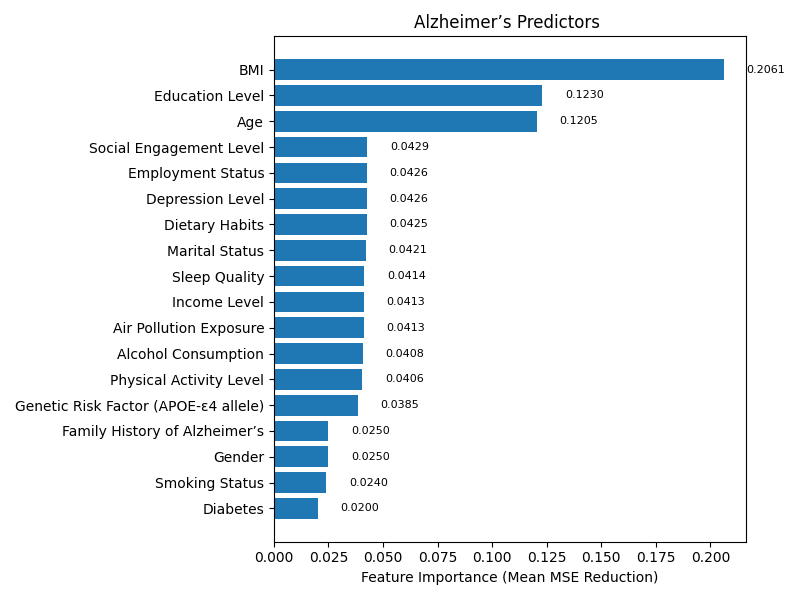
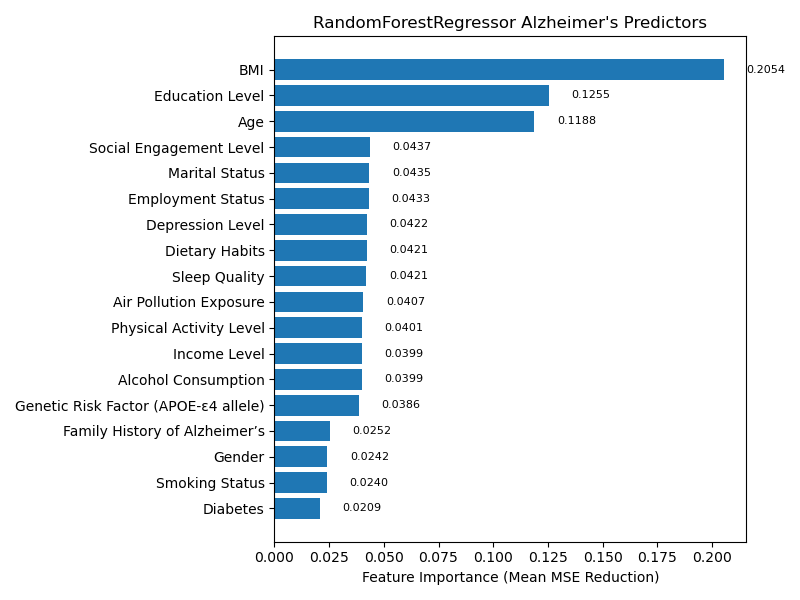
Final project: full updated website with dynamic visual explanations

diff --git a/interactive_chart.html b/interactive_chart.html
@@ -2,6 +2,6 @@
 <head><meta charset="utf-8" /></head>
 <body>
     <div>                        <script type="text/javascript">window.PlotlyConfig = {MathJaxConfig: 'local'};</script>
-        <script src="https://cdn.plot.ly/plotly-2.12.1.min.js"></script>                <div id="f7742f67-612d-4170-8a8c-887f376bfe71" class="plotly-graph-div" style="height:100%; width:100%;"></div>            <script type="text/javascript">                                    window.PLOTLYENV=window.PLOTLYENV || {};                                    if (document.getElementById("f7742f67-612d-4170-8a8c-887f376bfe71")) {                    Plotly.newPlot(                        "f7742f67-612d-4170-8a8c-887f376bfe71",                        [{"hoverinfo":"text","hovertext":["Summed Importance: 23.84%<br>Features: Age, Gender, Genetic Risk Factor (APOE-\u03b54 allele), Family History of Alzheimer\u2019s, Diabetes","Summed Importance: 76.16%<br>Features: Physical Activity Level, Smoking Status, Alcohol Consumption, Sleep Quality, Dietary Habits, Employment Status, Marital Status, Social Engagement Level, Income Level, Depression Level, Air Pollution Exposure, BMI, Education Level"],"marker":{"color":["#e377c2","#9467bd"]},"showlegend":false,"x":["Nature","Nurture"],"y":[23.839139895958798,76.16086010404122],"type":"bar"}],                        {"template":{"data":{"histogram2dcontour":[{"type":"histogram2dcontour","colorbar":{"outlinewidth":0,"ticks":""},"colorscale":[[0.0,"#0d0887"],[0.1111111111111111,"#46039f"],[0.2222222222222222,"#7201a8"],[0.3333333333333333,"#9c179e"],[0.4444444444444444,"#bd3786"],[0.5555555555555556,"#d8576b"],[0.6666666666666666,"#ed7953"],[0.7777777777777778,"#fb9f3a"],[0.8888888888888888,"#fdca26"],[1.0,"#f0f921"]]}],"choropleth":[{"type":"choropleth","colorbar":{"outlinewidth":0,"ticks":""}}],"histogram2d":[{"type":"histogram2d","colorbar":{"outlinewidth":0,"ticks":""},"colorscale":[[0.0,"#0d0887"],[0.1111111111111111,"#46039f"],[0.2222222222222222,"#7201a8"],[0.3333333333333333,"#9c179e"],[0.4444444444444444,"#bd3786"],[0.5555555555555556,"#d8576b"],[0.6666666666666666,"#ed7953"],[0.7777777777777778,"#fb9f3a"],[0.8888888888888888,"#fdca26"],[1.0,"#f0f921"]]}],"heatmap":[{"type":"heatmap","colorbar":{"outlinewidth":0,"ticks":""},"colorscale":[[0.0,"#0d0887"],[0.1111111111111111,"#46039f"],[0.2222222222222222,"#7201a8"],[0.3333333333333333,"#9c179e"],[0.4444444444444444,"#bd3786"],[0.5555555555555556,"#d8576b"],[0.6666666666666666,"#ed7953"],[0.7777777777777778,"#fb9f3a"],[0.8888888888888888,"#fdca26"],[1.0,"#f0f921"]]}],"heatmapgl":[{"type":"heatmapgl","colorbar":{"outlinewidth":0,"ticks":""},"colorscale":[[0.0,"#0d0887"],[0.1111111111111111,"#46039f"],[0.2222222222222222,"#7201a8"],[0.3333333333333333,"#9c179e"],[0.4444444444444444,"#bd3786"],[0.5555555555555556,"#d8576b"],[0.6666666666666666,"#ed7953"],[0.7777777777777778,"#fb9f3a"],[0.8888888888888888,"#fdca26"],[1.0,"#f0f921"]]}],"contourcarpet":[{"type":"contourcarpet","colorbar":{"outlinewidth":0,"ticks":""}}],"contour":[{"type":"contour","colorbar":{"outlinewidth":0,"ticks":""},"colorscale":[[0.0,"#0d0887"],[0.1111111111111111,"#46039f"],[0.2222222222222222,"#7201a8"],[0.3333333333333333,"#9c179e"],[0.4444444444444444,"#bd3786"],[0.5555555555555556,"#d8576b"],[0.6666666666666666,"#ed7953"],[0.7777777777777778,"#fb9f3a"],[0.8888888888888888,"#fdca26"],[1.0,"#f0f921"]]}],"surface":[{"type":"surface","colorbar":{"outlinewidth":0,"ticks":""},"colorscale":[[0.0,"#0d0887"],[0.1111111111111111,"#46039f"],[0.2222222222222222,"#7201a8"],[0.3333333333333333,"#9c179e"],[0.4444444444444444,"#bd3786"],[0.5555555555555556,"#d8576b"],[0.6666666666666666,"#ed7953"],[0.7777777777777778,"#fb9f3a"],[0.8888888888888888,"#fdca26"],[1.0,"#f0f921"]]}],"mesh3d":[{"type":"mesh3d","colorbar":{"outlinewidth":0,"ticks":""}}],"scatter":[{"fillpattern":{"fillmode":"overlay","size":10,"solidity":0.2},"type":"scatter"}],"parcoords":[{"type":"parcoords","line":{"colorbar":{"outlinewidth":0,"ticks":""}}}],"scatterpolargl":[{"type":"scatterpolargl","marker":{"colorbar":{"outlinewidth":0,"ticks":""}}}],"bar":[{"error_x":{"color":"#2a3f5f"},"error_y":{"color":"#2a3f5f"},"marker":{"line":{"color":"#E5ECF6","width":0.5},"pattern":{"fillmode":"overlay","size":10,"solidity":0.2}},"type":"bar"}],"scattergeo":[{"type":"scattergeo","marker":{"colorbar":{"outlinewidth":0,"ticks":""}}}],"scatterpolar":[{"type":"scatterpolar","marker":{"colorbar":{"outlinewidth":0,"ticks":""}}}],"histogram":[{"marker":{"pattern":{"fillmode":"overlay","size":10,"solidity":0.2}},"type":"histogram"}],"scattergl":[{"type":"scattergl","marker":{"colorbar":{"outlinewidth":0,"ticks":""}}}],"scatter3d":[{"type":"scatter3d","line":{"colorbar":{"outlinewidth":0,"ticks":""}},"marker":{"colorbar":{"outlinewidth":0,"ticks":""}}}],"scattermapbox":[{"type":"scattermapbox","marker":{"colorbar":{"outlinewidth":0,"ticks":""}}}],"scatterternary":[{"type":"scatterternary","marker":{"colorbar":{"outlinewidth":0,"ticks":""}}}],"scattercarpet":[{"type":"scattercarpet","marker":{"colorbar":{"outlinewidth":0,"ticks":""}}}],"carpet":[{"aaxis":{"endlinecolor":"#2a3f5f","gridcolor":"white","linecolor":"white","minorgridcolor":"white","startlinecolor":"#2a3f5f"},"baxis":{"endlinecolor":"#2a3f5f","gridcolor":"white","linecolor":"white","minorgridcolor":"white","startlinecolor":"#2a3f5f"},"type":"carpet"}],"table":[{"cells":{"fill":{"color":"#EBF0F8"},"line":{"color":"white"}},"header":{"fill":{"color":"#C8D4E3"},"line":{"color":"white"}},"type":"table"}],"barpolar":[{"marker":{"line":{"color":"#E5ECF6","width":0.5},"pattern":{"fillmode":"overlay","size":10,"solidity":0.2}},"type":"barpolar"}],"pie":[{"automargin":true,"type":"pie"}]},"layout":{"autotypenumbers":"strict","colorway":["#636efa","#EF553B","#00cc96","#ab63fa","#FFA15A","#19d3f3","#FF6692","#B6E880","#FF97FF","#FECB52"],"font":{"color":"#2a3f5f"},"hovermode":"closest","hoverlabel":{"align":"left"},"paper_bgcolor":"white","plot_bgcolor":"#E5ECF6","polar":{"bgcolor":"#E5ECF6","angularaxis":{"gridcolor":"white","linecolor":"white","ticks":""},"radialaxis":{"gridcolor":"white","linecolor":"white","ticks":""}},"ternary":{"bgcolor":"#E5ECF6","aaxis":{"gridcolor":"white","linecolor":"white","ticks":""},"baxis":{"gridcolor":"white","linecolor":"white","ticks":""},"caxis":{"gridcolor":"white","linecolor":"white","ticks":""}},"coloraxis":{"colorbar":{"outlinewidth":0,"ticks":""}},"colorscale":{"sequential":[[0.0,"#0d0887"],[0.1111111111111111,"#46039f"],[0.2222222222222222,"#7201a8"],[0.3333333333333333,"#9c179e"],[0.4444444444444444,"#bd3786"],[0.5555555555555556,"#d8576b"],[0.6666666666666666,"#ed7953"],[0.7777777777777778,"#fb9f3a"],[0.8888888888888888,"#fdca26"],[1.0,"#f0f921"]],"sequentialminus":[[0.0,"#0d0887"],[0.1111111111111111,"#46039f"],[0.2222222222222222,"#7201a8"],[0.3333333333333333,"#9c179e"],[0.4444444444444444,"#bd3786"],[0.5555555555555556,"#d8576b"],[0.6666666666666666,"#ed7953"],[0.7777777777777778,"#fb9f3a"],[0.8888888888888888,"#fdca26"],[1.0,"#f0f921"]],"diverging":[[0,"#8e0152"],[0.1,"#c51b7d"],[0.2,"#de77ae"],[0.3,"#f1b6da"],[0.4,"#fde0ef"],[0.5,"#f7f7f7"],[0.6,"#e6f5d0"],[0.7,"#b8e186"],[0.8,"#7fbc41"],[0.9,"#4d9221"],[1,"#276419"]]},"xaxis":{"gridcolor":"white","linecolor":"white","ticks":"","title":{"standoff":15},"zerolinecolor":"white","automargin":true,"zerolinewidth":2},"yaxis":{"gridcolor":"white","linecolor":"white","ticks":"","title":{"standoff":15},"zerolinecolor":"white","automargin":true,"zerolinewidth":2},"scene":{"xaxis":{"backgroundcolor":"#E5ECF6","gridcolor":"white","linecolor":"white","showbackground":true,"ticks":"","zerolinecolor":"white","gridwidth":2},"yaxis":{"backgroundcolor":"#E5ECF6","gridcolor":"white","linecolor":"white","showbackground":true,"ticks":"","zerolinecolor":"white","gridwidth":2},"zaxis":{"backgroundcolor":"#E5ECF6","gridcolor":"white","linecolor":"white","showbackground":true,"ticks":"","zerolinecolor":"white","gridwidth":2}},"shapedefaults":{"line":{"color":"#2a3f5f"}},"annotationdefaults":{"arrowcolor":"#2a3f5f","arrowhead":0,"arrowwidth":1},"geo":{"bgcolor":"white","landcolor":"#E5ECF6","subunitcolor":"white","showland":true,"showlakes":true,"lakecolor":"white"},"title":{"x":0.05},"mapbox":{"style":"light"}}},"updatemenus":[{"buttons":[{"args":[{"x":[["Nature","Nurture"]],"y":[[23.839139895958798,76.16086010404122]],"hovertext":[["Summed Importance: 23.84%<br>Features: Age, Gender, Genetic Risk Factor (APOE-\u03b54 allele), Family History of Alzheimer\u2019s, Diabetes","Summed Importance: 76.16%<br>Features: Physical Activity Level, Smoking Status, Alcohol Consumption, Sleep Quality, Dietary Habits, Employment Status, Marital Status, Social Engagement Level, Income Level, Depression Level, Air Pollution Exposure, BMI, Education Level"]],"marker.color":[["#e377c2","#9467bd"]]},{"title":"Grouped RFR Factor Importance for: Nature vs Nature","xaxis":{"title":""}}],"label":"Nature vs Nature","method":"update"},{"args":[{"x":[["Yes","Debatable","No"]],"y":[[51.75034590280036,11.788633560982614,36.461020536217035]],"hovertext":[["Summed Importance: 51.75%<br>Features: Physical Activity Level, Smoking Status, Alcohol Consumption, Dietary Habits, Social Engagement Level, BMI, Education Level","Summed Importance: 11.79%<br>Features: Sleep Quality, Employment Status, Income Level","Summed Importance: 36.46%<br>Features: Age, Gender, Genetic Risk Factor (APOE-\u03b54 allele), Family History of Alzheimer\u2019s, Diabetes, Air Pollution Exposure, Depression Level, Marital Status"]],"marker.color":[["#8c564b","#ff7f0e","#1f77b4"]]},{"title":"Grouped RFR Factor Importance for: Impact of Life Choices","xaxis":{"title":""}}],"label":"Impact of Life Choices","method":"update"},{"args":[{"x":[["Body Factors","Other"]],"y":[[43.03508197951786,56.964918020482145]],"hovertext":[["Summed Importance: 43.04%<br>Features: Physical Activity Level, Smoking Status, Alcohol Consumption, Depression Level, Sleep Quality, Dietary Habits, BMI","Summed Importance: 56.96%<br>Features: Gender, Education Level, Age, Diabetes, Family History of Alzheimer\u2019s, Air Pollution Exposure, Employment Status, Marital Status, Genetic Risk Factor (APOE-\u03b54 allele), Social Engagement Level, Income Level"]],"marker.color":[["#d62728","#2ca02c"]]},{"title":"Grouped RFR Factor Importance for: Importance of Taking Care of Your Body","xaxis":{"title":""}}],"label":"Importance of Taking Care of Your Body","method":"update"}],"direction":"down","showactive":true,"x":0.1,"xanchor":"right","y":1.1,"yanchor":"top"}],"title":{"text":"Totaled RFR Percentage Importances for: Nature vs Nature"},"xaxis":{"title":{"text":""}},"yaxis":{"title":{"text":"Total Importance (%)"}},"showlegend":false},                        {"responsive": true}                    )                };                            </script>        </div>
+        <script src="https://cdn.plot.ly/plotly-2.12.1.min.js"></script>                <div id="7551cdc0-fb35-4926-881c-478b0c6d7e42" class="plotly-graph-div" style="height:100%; width:100%;"></div>            <script type="text/javascript">                                    window.PLOTLYENV=window.PLOTLYENV || {};                                    if (document.getElementById("7551cdc0-fb35-4926-881c-478b0c6d7e42")) {                    Plotly.newPlot(                        "7551cdc0-fb35-4926-881c-478b0c6d7e42",                        [{"hoverinfo":"text","hovertext":["Summed Importance: 23.21%<br>Features: Age, Gender, Genetic Risk Factor (APOE-\u03b54 allele), Family History of Alzheimer\u2019s, Diabetes","Summed Importance: 76.79%<br>Features: Physical Activity Level, Smoking Status, Alcohol Consumption, Sleep Quality, Dietary Habits, Employment Status, Marital Status, Social Engagement Level, Income Level, Depression Level, Air Pollution Exposure, BMI, Education Level"],"marker":{"color":["#8c564b","#9467bd"]},"showlegend":false,"x":["Nature","Nurture"],"y":[23.20738542897737,76.79261457102264],"type":"bar"}],                        {"template":{"data":{"histogram2dcontour":[{"type":"histogram2dcontour","colorbar":{"outlinewidth":0,"ticks":""},"colorscale":[[0.0,"#0d0887"],[0.1111111111111111,"#46039f"],[0.2222222222222222,"#7201a8"],[0.3333333333333333,"#9c179e"],[0.4444444444444444,"#bd3786"],[0.5555555555555556,"#d8576b"],[0.6666666666666666,"#ed7953"],[0.7777777777777778,"#fb9f3a"],[0.8888888888888888,"#fdca26"],[1.0,"#f0f921"]]}],"choropleth":[{"type":"choropleth","colorbar":{"outlinewidth":0,"ticks":""}}],"histogram2d":[{"type":"histogram2d","colorbar":{"outlinewidth":0,"ticks":""},"colorscale":[[0.0,"#0d0887"],[0.1111111111111111,"#46039f"],[0.2222222222222222,"#7201a8"],[0.3333333333333333,"#9c179e"],[0.4444444444444444,"#bd3786"],[0.5555555555555556,"#d8576b"],[0.6666666666666666,"#ed7953"],[0.7777777777777778,"#fb9f3a"],[0.8888888888888888,"#fdca26"],[1.0,"#f0f921"]]}],"heatmap":[{"type":"heatmap","colorbar":{"outlinewidth":0,"ticks":""},"colorscale":[[0.0,"#0d0887"],[0.1111111111111111,"#46039f"],[0.2222222222222222,"#7201a8"],[0.3333333333333333,"#9c179e"],[0.4444444444444444,"#bd3786"],[0.5555555555555556,"#d8576b"],[0.6666666666666666,"#ed7953"],[0.7777777777777778,"#fb9f3a"],[0.8888888888888888,"#fdca26"],[1.0,"#f0f921"]]}],"heatmapgl":[{"type":"heatmapgl","colorbar":{"outlinewidth":0,"ticks":""},"colorscale":[[0.0,"#0d0887"],[0.1111111111111111,"#46039f"],[0.2222222222222222,"#7201a8"],[0.3333333333333333,"#9c179e"],[0.4444444444444444,"#bd3786"],[0.5555555555555556,"#d8576b"],[0.6666666666666666,"#ed7953"],[0.7777777777777778,"#fb9f3a"],[0.8888888888888888,"#fdca26"],[1.0,"#f0f921"]]}],"contourcarpet":[{"type":"contourcarpet","colorbar":{"outlinewidth":0,"ticks":""}}],"contour":[{"type":"contour","colorbar":{"outlinewidth":0,"ticks":""},"colorscale":[[0.0,"#0d0887"],[0.1111111111111111,"#46039f"],[0.2222222222222222,"#7201a8"],[0.3333333333333333,"#9c179e"],[0.4444444444444444,"#bd3786"],[0.5555555555555556,"#d8576b"],[0.6666666666666666,"#ed7953"],[0.7777777777777778,"#fb9f3a"],[0.8888888888888888,"#fdca26"],[1.0,"#f0f921"]]}],"surface":[{"type":"surface","colorbar":{"outlinewidth":0,"ticks":""},"colorscale":[[0.0,"#0d0887"],[0.1111111111111111,"#46039f"],[0.2222222222222222,"#7201a8"],[0.3333333333333333,"#9c179e"],[0.4444444444444444,"#bd3786"],[0.5555555555555556,"#d8576b"],[0.6666666666666666,"#ed7953"],[0.7777777777777778,"#fb9f3a"],[0.8888888888888888,"#fdca26"],[1.0,"#f0f921"]]}],"mesh3d":[{"type":"mesh3d","colorbar":{"outlinewidth":0,"ticks":""}}],"scatter":[{"fillpattern":{"fillmode":"overlay","size":10,"solidity":0.2},"type":"scatter"}],"parcoords":[{"type":"parcoords","line":{"colorbar":{"outlinewidth":0,"ticks":""}}}],"scatterpolargl":[{"type":"scatterpolargl","marker":{"colorbar":{"outlinewidth":0,"ticks":""}}}],"bar":[{"error_x":{"color":"#2a3f5f"},"error_y":{"color":"#2a3f5f"},"marker":{"line":{"color":"#E5ECF6","width":0.5},"pattern":{"fillmode":"overlay","size":10,"solidity":0.2}},"type":"bar"}],"scattergeo":[{"type":"scattergeo","marker":{"colorbar":{"outlinewidth":0,"ticks":""}}}],"scatterpolar":[{"type":"scatterpolar","marker":{"colorbar":{"outlinewidth":0,"ticks":""}}}],"histogram":[{"marker":{"pattern":{"fillmode":"overlay","size":10,"solidity":0.2}},"type":"histogram"}],"scattergl":[{"type":"scattergl","marker":{"colorbar":{"outlinewidth":0,"ticks":""}}}],"scatter3d":[{"type":"scatter3d","line":{"colorbar":{"outlinewidth":0,"ticks":""}},"marker":{"colorbar":{"outlinewidth":0,"ticks":""}}}],"scattermapbox":[{"type":"scattermapbox","marker":{"colorbar":{"outlinewidth":0,"ticks":""}}}],"scatterternary":[{"type":"scatterternary","marker":{"colorbar":{"outlinewidth":0,"ticks":""}}}],"scattercarpet":[{"type":"scattercarpet","marker":{"colorbar":{"outlinewidth":0,"ticks":""}}}],"carpet":[{"aaxis":{"endlinecolor":"#2a3f5f","gridcolor":"white","linecolor":"white","minorgridcolor":"white","startlinecolor":"#2a3f5f"},"baxis":{"endlinecolor":"#2a3f5f","gridcolor":"white","linecolor":"white","minorgridcolor":"white","startlinecolor":"#2a3f5f"},"type":"carpet"}],"table":[{"cells":{"fill":{"color":"#EBF0F8"},"line":{"color":"white"}},"header":{"fill":{"color":"#C8D4E3"},"line":{"color":"white"}},"type":"table"}],"barpolar":[{"marker":{"line":{"color":"#E5ECF6","width":0.5},"pattern":{"fillmode":"overlay","size":10,"solidity":0.2}},"type":"barpolar"}],"pie":[{"automargin":true,"type":"pie"}]},"layout":{"autotypenumbers":"strict","colorway":["#636efa","#EF553B","#00cc96","#ab63fa","#FFA15A","#19d3f3","#FF6692","#B6E880","#FF97FF","#FECB52"],"font":{"color":"#2a3f5f"},"hovermode":"closest","hoverlabel":{"align":"left"},"paper_bgcolor":"white","plot_bgcolor":"#E5ECF6","polar":{"bgcolor":"#E5ECF6","angularaxis":{"gridcolor":"white","linecolor":"white","ticks":""},"radialaxis":{"gridcolor":"white","linecolor":"white","ticks":""}},"ternary":{"bgcolor":"#E5ECF6","aaxis":{"gridcolor":"white","linecolor":"white","ticks":""},"baxis":{"gridcolor":"white","linecolor":"white","ticks":""},"caxis":{"gridcolor":"white","linecolor":"white","ticks":""}},"coloraxis":{"colorbar":{"outlinewidth":0,"ticks":""}},"colorscale":{"sequential":[[0.0,"#0d0887"],[0.1111111111111111,"#46039f"],[0.2222222222222222,"#7201a8"],[0.3333333333333333,"#9c179e"],[0.4444444444444444,"#bd3786"],[0.5555555555555556,"#d8576b"],[0.6666666666666666,"#ed7953"],[0.7777777777777778,"#fb9f3a"],[0.8888888888888888,"#fdca26"],[1.0,"#f0f921"]],"sequentialminus":[[0.0,"#0d0887"],[0.1111111111111111,"#46039f"],[0.2222222222222222,"#7201a8"],[0.3333333333333333,"#9c179e"],[0.4444444444444444,"#bd3786"],[0.5555555555555556,"#d8576b"],[0.6666666666666666,"#ed7953"],[0.7777777777777778,"#fb9f3a"],[0.8888888888888888,"#fdca26"],[1.0,"#f0f921"]],"diverging":[[0,"#8e0152"],[0.1,"#c51b7d"],[0.2,"#de77ae"],[0.3,"#f1b6da"],[0.4,"#fde0ef"],[0.5,"#f7f7f7"],[0.6,"#e6f5d0"],[0.7,"#b8e186"],[0.8,"#7fbc41"],[0.9,"#4d9221"],[1,"#276419"]]},"xaxis":{"gridcolor":"white","linecolor":"white","ticks":"","title":{"standoff":15},"zerolinecolor":"white","automargin":true,"zerolinewidth":2},"yaxis":{"gridcolor":"white","linecolor":"white","ticks":"","title":{"standoff":15},"zerolinecolor":"white","automargin":true,"zerolinewidth":2},"scene":{"xaxis":{"backgroundcolor":"#E5ECF6","gridcolor":"white","linecolor":"white","showbackground":true,"ticks":"","zerolinecolor":"white","gridwidth":2},"yaxis":{"backgroundcolor":"#E5ECF6","gridcolor":"white","linecolor":"white","showbackground":true,"ticks":"","zerolinecolor":"white","gridwidth":2},"zaxis":{"backgroundcolor":"#E5ECF6","gridcolor":"white","linecolor":"white","showbackground":true,"ticks":"","zerolinecolor":"white","gridwidth":2}},"shapedefaults":{"line":{"color":"#2a3f5f"}},"annotationdefaults":{"arrowcolor":"#2a3f5f","arrowhead":0,"arrowwidth":1},"geo":{"bgcolor":"white","landcolor":"#E5ECF6","subunitcolor":"white","showland":true,"showlakes":true,"lakecolor":"white"},"title":{"x":0.05},"mapbox":{"style":"light"}}},"updatemenus":[{"buttons":[{"args":[{"x":[["Nature","Nurture"]],"y":[[23.20738542897737,76.79261457102264]],"hovertext":[["Summed Importance: 23.21%<br>Features: Age, Gender, Genetic Risk Factor (APOE-\u03b54 allele), Family History of Alzheimer\u2019s, Diabetes","Summed Importance: 76.79%<br>Features: Physical Activity Level, Smoking Status, Alcohol Consumption, Sleep Quality, Dietary Habits, Employment Status, Marital Status, Social Engagement Level, Income Level, Depression Level, Air Pollution Exposure, BMI, Education Level"]],"marker.color":[["#8c564b","#9467bd"]]},{"title":"Grouped RFR Factor Importance for: Nature vs Nature","xaxis":{"title":""}}],"label":"Nature vs Nature","method":"update"},{"args":[{"x":[["Yes","Debatable","No"]],"y":[[51.85995137939711,12.491691308457469,35.64835731214542]],"hovertext":[["Summed Importance: 51.86%<br>Features: Physical Activity Level, Smoking Status, Alcohol Consumption, Dietary Habits, Social Engagement Level, BMI, Education Level","Summed Importance: 12.49%<br>Features: Sleep Quality, Employment Status, Income Level","Summed Importance: 35.65%<br>Features: Age, Gender, Genetic Risk Factor (APOE-\u03b54 allele), Family History of Alzheimer\u2019s, Diabetes, Air Pollution Exposure, Depression Level, Marital Status"]],"marker.color":[["#2ca02c","#ff7f0e","#1f77b4"]]},{"title":"Grouped RFR Factor Importance for: Impact of Life Choices","xaxis":{"title":""}}],"label":"Impact of Life Choices","method":"update"},{"args":[{"x":[["Body Factors","Other"]],"y":[[43.19892122619066,56.80107877380933]],"hovertext":[["Summed Importance: 43.20%<br>Features: Physical Activity Level, Smoking Status, Alcohol Consumption, Depression Level, Sleep Quality, Dietary Habits, BMI","Summed Importance: 56.80%<br>Features: Gender, Education Level, Age, Diabetes, Family History of Alzheimer\u2019s, Air Pollution Exposure, Employment Status, Marital Status, Genetic Risk Factor (APOE-\u03b54 allele), Social Engagement Level, Income Level"]],"marker.color":[["#d62728","#e377c2"]]},{"title":"Grouped RFR Factor Importance for: Importance of Taking Care of Your Body","xaxis":{"title":""}}],"label":"Importance of Taking Care of Your Body","method":"update"}],"direction":"down","showactive":true,"x":0.1,"xanchor":"right","y":1.1,"yanchor":"top"}],"title":{"text":"Totaled RFR Percentage Importances for: Nature vs Nature"},"xaxis":{"title":{"text":""}},"yaxis":{"title":{"text":"Total Importance (%)"}},"showlegend":false},                        {"responsive": true}                    )                };                            </script>        </div>
 </body>
 </html>

diff --git a/genetic_risk_chart.html b/genetic_risk_chart.html
@@ -1,0 +1,42 @@
+<!DOCTYPE html>
+<html>
+<head>
+  <meta charset="UTF-8">
+  <style>
+    #vis.vega-embed {
+      width: 100%;
+      display: flex;
+    }
+
+    #vis.vega-embed details,
+    #vis.vega-embed details summary {
+      position: relative;
+    }
+  </style>
+  <script type="text/javascript" src="https://cdn.jsdelivr.net/npm/vega@5"></script>
+  <script type="text/javascript" src="https://cdn.jsdelivr.net/npm/vega-lite@5.20.1"></script>
+  <script type="text/javascript" src="https://cdn.jsdelivr.net/npm/vega-embed@6"></script>
+</head>
+<body>
+  <div id="vis"></div>
+  <script>
+    (function(vegaEmbed) {
+      var spec = {"config": {"view": {"continuousWidth": 300, "continuousHeight": 300}}, "data": {"name": "data-a562197143ef7f2aaaba3abaa44aba3a"}, "mark": {"type": "bar"}, "encoding": {"color": {"field": "Genetic Risk Factor", "scale": {"domain": ["Yes", "No"], "range": ["#d35400", "#f7dc6f"]}, "type": "nominal"}, "tooltip": [{"field": "Alzheimer\u2019s Diagnosis", "type": "nominal"}, {"field": "Genetic Risk Factor", "type": "nominal"}, {"field": "Count", "type": "quantitative"}], "x": {"field": "Alzheimer\u2019s Diagnosis", "title": "Alzheimer\u2019s Diagnosis", "type": "nominal"}, "y": {"field": "Count", "stack": "normalize", "title": "Percentage", "type": "quantitative"}}, "height": 300, "params": [{"name": "param_1", "select": {"type": "interval", "encodings": ["x", "y"]}, "bind": "scales"}], "title": "Genetic Risk Factor by Alzheimer\u2019s Diagnosis (78+ Years Old)", "width": 400, "$schema": "https://vega.github.io/schema/vega-lite/v5.20.1.json", "datasets": {"data-a562197143ef7f2aaaba3abaa44aba3a": [{"Alzheimer\u2019s Diagnosis": "Yes", "Genetic Risk Factor": "No", "Count": 13721}, {"Alzheimer\u2019s Diagnosis": "No", "Genetic Risk Factor": "No", "Count": 8632}, {"Alzheimer\u2019s Diagnosis": "Yes", "Genetic Risk Factor": "Yes", "Count": 4765}, {"Alzheimer\u2019s Diagnosis": "No", "Genetic Risk Factor": "Yes", "Count": 865}]}};
+      var embedOpt = {"mode": "vega-lite"};
+
+      function showError(el, error){
+          el.innerHTML = ('<div style="color:red;">'
+                          + '<p>JavaScript Error: ' + error.message + '</p>'
+                          + "<p>This usually means there's a typo in your chart specification. "
+                          + "See the javascript console for the full traceback.</p>"
+                          + '</div>');
+          throw error;
+      }
+      const el = document.getElementById('vis');
+      vegaEmbed("#vis", spec, embedOpt)
+        .catch(error => showError(el, error));
+    })(vegaEmbed);
+
+  </script>
+</body>
+</html>

diff --git a/family_history_chart.html b/family_history_chart.html
@@ -1,0 +1,42 @@
+<!DOCTYPE html>
+<html>
+<head>
+  <meta charset="UTF-8">
+  <style>
+    #vis.vega-embed {
+      width: 100%;
+      display: flex;
+    }
+
+    #vis.vega-embed details,
+    #vis.vega-embed details summary {
+      position: relative;
+    }
+  </style>
+  <script type="text/javascript" src="https://cdn.jsdelivr.net/npm/vega@5"></script>
+  <script type="text/javascript" src="https://cdn.jsdelivr.net/npm/vega-lite@5.20.1"></script>
+  <script type="text/javascript" src="https://cdn.jsdelivr.net/npm/vega-embed@6"></script>
+</head>
+<body>
+  <div id="vis"></div>
+  <script>
+    (function(vegaEmbed) {
+      var spec = {"config": {"view": {"continuousWidth": 300, "continuousHeight": 300}}, "data": {"name": "data-7c7500be115ed9f6265b2f43cde59d6d"}, "mark": {"type": "bar"}, "encoding": {"color": {"field": "Family History", "scale": {"domain": ["Yes", "No"], "range": ["#c39bd3", "#7f8c8d"]}, "type": "nominal"}, "tooltip": [{"field": "Alzheimer\u2019s Diagnosis", "type": "nominal"}, {"field": "Family History", "type": "nominal"}, {"field": "Count", "type": "quantitative"}], "x": {"field": "Alzheimer\u2019s Diagnosis", "title": "Alzheimer\u2019s Diagnosis", "type": "nominal"}, "y": {"field": "Count", "stack": "normalize", "title": "Percentage", "type": "quantitative"}}, "height": 300, "params": [{"name": "param_1", "select": {"type": "interval", "encodings": ["x", "y"]}, "bind": "scales"}], "title": "Family History by Alzheimer\u2019s Diagnosis (78+ Years Old)", "width": 400, "$schema": "https://vega.github.io/schema/vega-lite/v5.20.1.json", "datasets": {"data-7c7500be115ed9f6265b2f43cde59d6d": [{"Alzheimer\u2019s Diagnosis": "Yes", "Family History": "No", "Count": 12025}, {"Alzheimer\u2019s Diagnosis": "No", "Family History": "No", "Count": 7619}, {"Alzheimer\u2019s Diagnosis": "Yes", "Family History": "Yes", "Count": 6461}, {"Alzheimer\u2019s Diagnosis": "No", "Family History": "Yes", "Count": 1878}]}};
+      var embedOpt = {"mode": "vega-lite"};
+
+      function showError(el, error){
+          el.innerHTML = ('<div style="color:red;">'
+                          + '<p>JavaScript Error: ' + error.message + '</p>'
+                          + "<p>This usually means there's a typo in your chart specification. "
+                          + "See the javascript console for the full traceback.</p>"
+                          + '</div>');
+          throw error;
+      }
+      const el = document.getElementById('vis');
+      vegaEmbed("#vis", spec, embedOpt)
+        .catch(error => showError(el, error));
+    })(vegaEmbed);
+
+  </script>
+</body>
+</html>

diff --git a/style.css b/style.css
@@ -1,0 +1,85 @@
+body {
+    font-family: 'Segoe UI', sans-serif;
+    margin: 0;
+    padding: 0;
+    background-color: #f4f7fa;
+    color: #222;
+  }
+  
+  .container {
+    max-width: 900px;
+    margin: 0 auto;
+    padding: 50px 20px;
+  }
+  
+  h1 {
+    font-size: 2.5em;
+    color: #2c3e50;
+    margin-bottom: 10px;
+    text-align: center;
+  }
+  
+  h2 {
+    color: #34495e;
+    border-bottom: 2px solid #dcdcdc;
+    padding-bottom: 6px;
+    margin-top: 40px;
+  }
+  
+  p, li {
+    font-size: 1.05em;
+    line-height: 1.7;
+  }
+  
+  ul {
+    padding-left: 20px;
+  }
+  
+  .button-container {
+    text-align: center;
+    margin-top: 30px;
+  }
+  
+  .button-container button {
+    margin: 10px;
+    padding: 12px 24px;
+    font-size: 16px;
+    cursor: pointer;
+    background-color: #2c3e50;
+    color: white;
+    border: none;
+    border-radius: 5px;
+    transition: background-color 0.3s ease;
+  }
+  
+  .button-container button:hover {
+    background-color: #34495e;
+  }
+  
+  .viz-container {
+    margin-top: 40px;
+  }
+  
+  iframe {
+    width: 100%;
+    height: 600px;
+    border: none;
+  }
+  
+  a {
+    color: #1e88e5;
+    text-decoration: none;
+  }
+  
+  a:hover {
+    text-decoration: underline;
+  }
+  
+  .lightbox {
+    padding: 20px;
+    background-color: #ffffff;
+    border-radius: 10px;
+    box-shadow: 0 0 10px rgba(0,0,0,0.05);
+    margin-bottom: 30px;
+  }
+  

diff --git a/JUST_rfr.py b/JUST_rfr.py
@@ -5,33 +5,37 @@ import base64
 from sklearn.ensemble import RandomForestRegressor
 from sklearn.preprocessing import LabelEncoder
 
+# Load data
 df_raw = pd.read_csv('alzheimers_prediction_dataset.csv')
-#df_raw = df_raw[df_raw['Country'] == 'USA']
-df_raw = df_raw[df_raw['Age'] >= 78]  # Filter for Age >= 75
+
+# Optional: reduce size for faster testing
+# df_raw = df_raw[df_raw['Age'] >= 78].sample(n=3000, random_state=42)
+df_raw = df_raw[df_raw['Age'] >= 78]  # Focus on high-risk group
 
 x_feat_list = [
-    'Age',                            # Numerical
-    'Gender',                         # Categorical (e.g., Male/Female)
-    'Education Level',                # Numerical
-    'BMI',                            # Numerical
-    'Physical Activity Level',        # Categorical (e.g., Low/Medium/High)
-    'Smoking Status',                 # Categorical (e.g., Yes/No/Former)
-    'Alcohol Consumption',            # Categorical (e.g., Low/Medium/High)
-    'Diabetes',                       # Categorical (Yes/No)
-    'Family History of Alzheimer’s',  # Categorical (Yes/No)
-    'Depression Level',               # Categorical (e.g., Low/Medium/High)
-    'Sleep Quality',                  # Categorical (e.g., Poor/Fair/Good)
-    'Dietary Habits',                 # Categorical (e.g., Poor/Fair/Good)
-    'Air Pollution Exposure',         # Categorical (e.g., Low/Medium/High)
-    'Employment Status',              # Categorical (e.g., Employed/Unemployed/Retired)
-    'Marital Status',                 # Categorical (e.g., Single/Married/Divorced)
-    'Genetic Risk Factor (APOE-ε4 allele)',  # Categorical (Yes/No)
-    'Social Engagement Level',        # Categorical (e.g., Low/Medium/High)
-    'Income Level',                   # Categorical (e.g., Low/Medium/High)
+    'Age',
+    'Gender',
+    'Education Level',
+    'BMI',
+    'Physical Activity Level',
+    'Smoking Status',
+    'Alcohol Consumption',
+    'Diabetes',
+    'Family History of Alzheimer’s',
+    'Depression Level',
+    'Sleep Quality',
+    'Dietary Habits',
+    'Air Pollution Exposure',
+    'Employment Status',
+    'Marital Status',
+    'Genetic Risk Factor (APOE-ε4 allele)',
+    'Social Engagement Level',
+    'Income Level',
 ]
 
 x_df = df_raw.loc[:, x_feat_list]
 
+# Encode categorical features
 mapping_dict = {
     'Gender': {'Male': 0, 'Female': 1},
     'Physical Activity Level': {'Low': 0, 'Medium': 1, 'High': 2},
@@ -57,43 +61,46 @@ for col, mapping in mapping_dict.items():
 
 x = x_df.values
 
-target_df = df_raw[['Alzheimer’s Diagnosis']]
+# Encode the target variable
 target_mapping = {'No': 0, 'Yes': 1}
-target_df['Alzheimer’s Diagnosis'] = target_df['Alzheimer’s Diagnosis'].map(target_mapping).fillna(-1)
-
+df_raw['Alzheimer’s Diagnosis'] = df_raw['Alzheimer’s Diagnosis'].map(target_mapping).fillna(-1)
 y = df_raw['Alzheimer’s Diagnosis']
+
 if y.dtype == 'object':
     le = LabelEncoder()
     y = le.fit_transform(y)
 
-rfr = RandomForestRegressor()
+# Train RandomForest (optimized for performance)
+rfr = RandomForestRegressor(n_estimators=50, random_state=42, n_jobs=-1)
 rfr.fit(x, y)
 
-# Modified plot_feat_import function with annotations
+# Plot function
 def plot_feat_import(feat_list, feat_import, sort=True, limit=None):
     if sort:
-        # Sort in descending order so most important features are first
         idx = np.argsort(feat_import)[::-1]
         feat_list = [feat_list[_idx] for _idx in idx]
         feat_import = feat_import[idx]
 
     if limit is not None:
-        # Take the top 'limit' features (most important due to descending sort)
         feat_list = feat_list[:limit]
         feat_import = feat_import[:limit]
 
     plt.figure(figsize=(8, 6))
     plt.barh(feat_list, feat_import)
-    plt.gca().invert_yaxis()  # Invert y-axis to place most important at top
+    plt.gca().invert_yaxis()
     plt.xlabel('Feature Importance (Mean MSE Reduction)')
-    plt.title('RandomForestRegressor Alzheimers Features Compared')
+    plt.title("RandomForestRegressor Alzheimer's Predictors")
 
-    # Add annotations for each bar
     max_import = max(feat_import)
-    offset = 0.05 * max_import  # Small offset proportional to max importance
+    offset = 0.05 * max_import
     for i, (feature, importance) in enumerate(zip(feat_list, feat_import)):
         plt.text(importance + offset, i, f"{importance:.4f}", va='center', fontsize=8)
 
     plt.tight_layout()
     plt.savefig('feature_importance.png')
     return plt
+
+plt_obj = plot_feat_import(x_feat_list, rfr.feature_importances_)
+
+with open('feature_importance.png', 'rb') as image_file:
+    encoded_image = base64.b64encode(image_file.read()).decode()

diff --git a/family_history_chart.py b/family_history_chart.py
@@ -1,0 +1,22 @@
+import pandas as pd
+import altair as alt
+
+df = pd.read_csv("alzheimers_prediction_dataset.csv")
+df_78plus = df[df["Age"] >= 78]
+
+subset = df_78plus[["Alzheimer’s Diagnosis", "Family History of Alzheimer’s"]].copy()
+counts = subset.value_counts().reset_index(name="Count")
+counts.columns = ["Alzheimer’s Diagnosis", "Family History", "Count"]
+
+chart = alt.Chart(counts).mark_bar().encode(
+    x=alt.X("Alzheimer’s Diagnosis", title="Alzheimer’s Diagnosis"),
+    y=alt.Y("Count", stack="normalize", title="Percentage"),
+    color=alt.Color("Family History", scale=alt.Scale(domain=["Yes", "No"], range=["#c39bd3", "#7f8c8d"])),
+    tooltip=["Alzheimer’s Diagnosis", "Family History", "Count"]
+).properties(
+    width=400,
+    height=300,
+    title="Family History by Alzheimer’s Diagnosis (78+ Years Old)"
+).interactive()
+
+chart.save("family_history_chart.html")

diff --git a/HistogramCorrelations.py b/HistogramCorrelations.py
@@ -37,4 +37,4 @@ plt.ylabel('Correlation with Alzheimer’s Diagnosis')
 plt.xticks(rotation=45, ha='right')  # Rotate x-axis labels for readability
 plt.grid(True, axis='y', alpha=0.3)  # Add horizontal grid lines
 plt.tight_layout()  # Adjust layout to prevent label cutoff
-plt.show()
+plt.savefig('correlation_plot.png', dpi=300)
